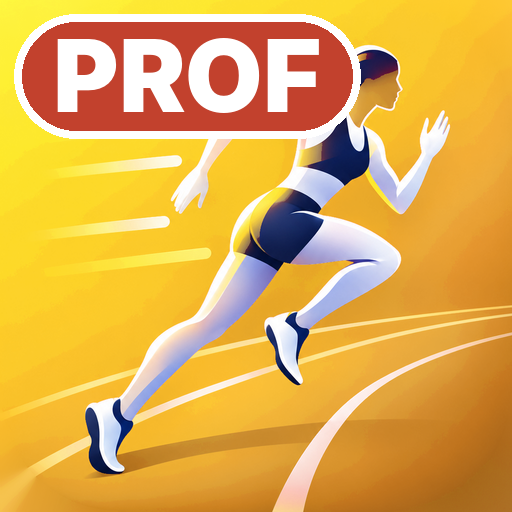
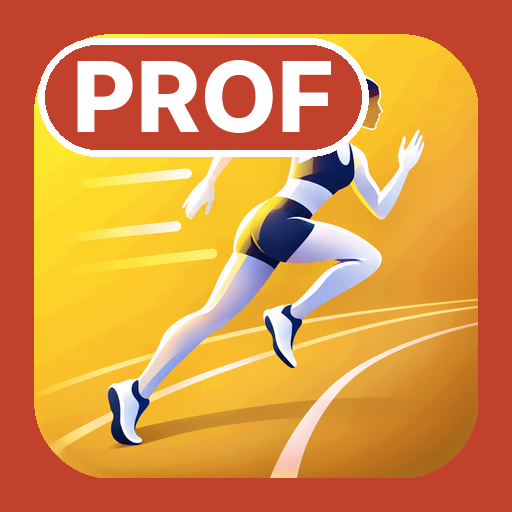
Icônes élève / prof : cadre de couleur (vert élève, rouge prof) autour de l'icône
Claude-Session: https://claude.ai/code/session_01UuASiQCvSrQnQNuK24r3AJ

diff --git a/sw.js b/sw.js
@@ -1,6 +1,6 @@
 /* Hors ligne : l'outil est gardé sur l'appareil après la 1re ouverture.
-   Après une modification, augmenter VERSION (dfp-v1 → dfp-v3…). */
-const VERSION='dfp-v3';
+   Après une modification, augmenter VERSION (dfp-v1 → dfp-v4…). */
+const VERSION='dfp-v4';
 const FICHIERS=['./','index.html','style.css','donnees.js','logique.js','qrcode.js','jsqr.js','scan.js','jszip.js','xlsx.js','vues.js','chrono.js','prof.js','prof-demo.js','manifest.webmanifest',
   'icon-32.png','icon-180.png','icon-192.png','icon-512.png'];
 self.addEventListener('install',e=>{e.waitUntil(caches.open(VERSION).then(c=>c.addAll(FICHIERS)).then(()=>self.skipWaiting()))});
